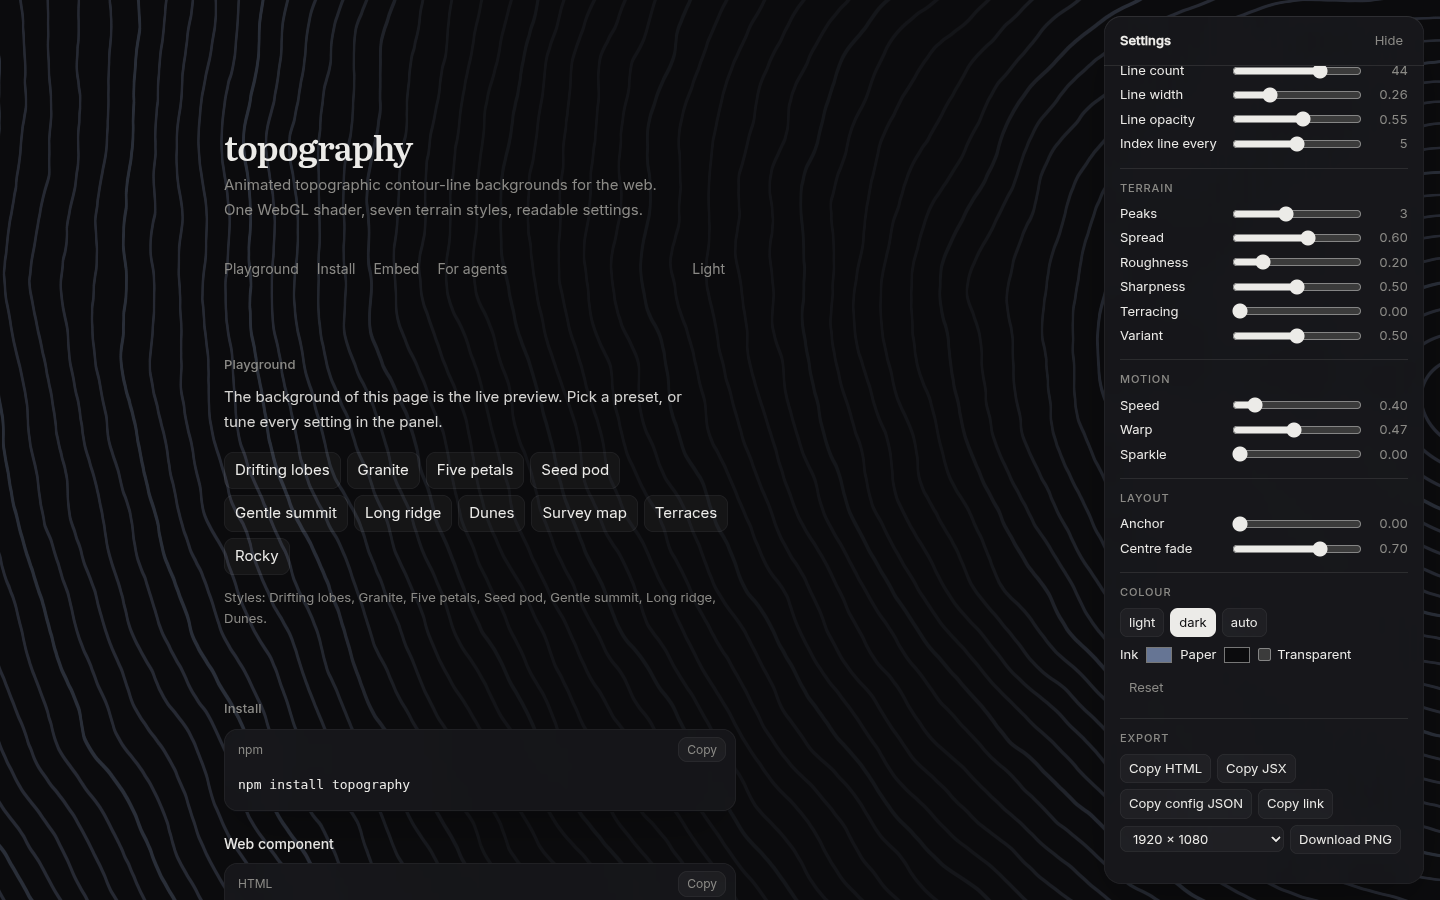
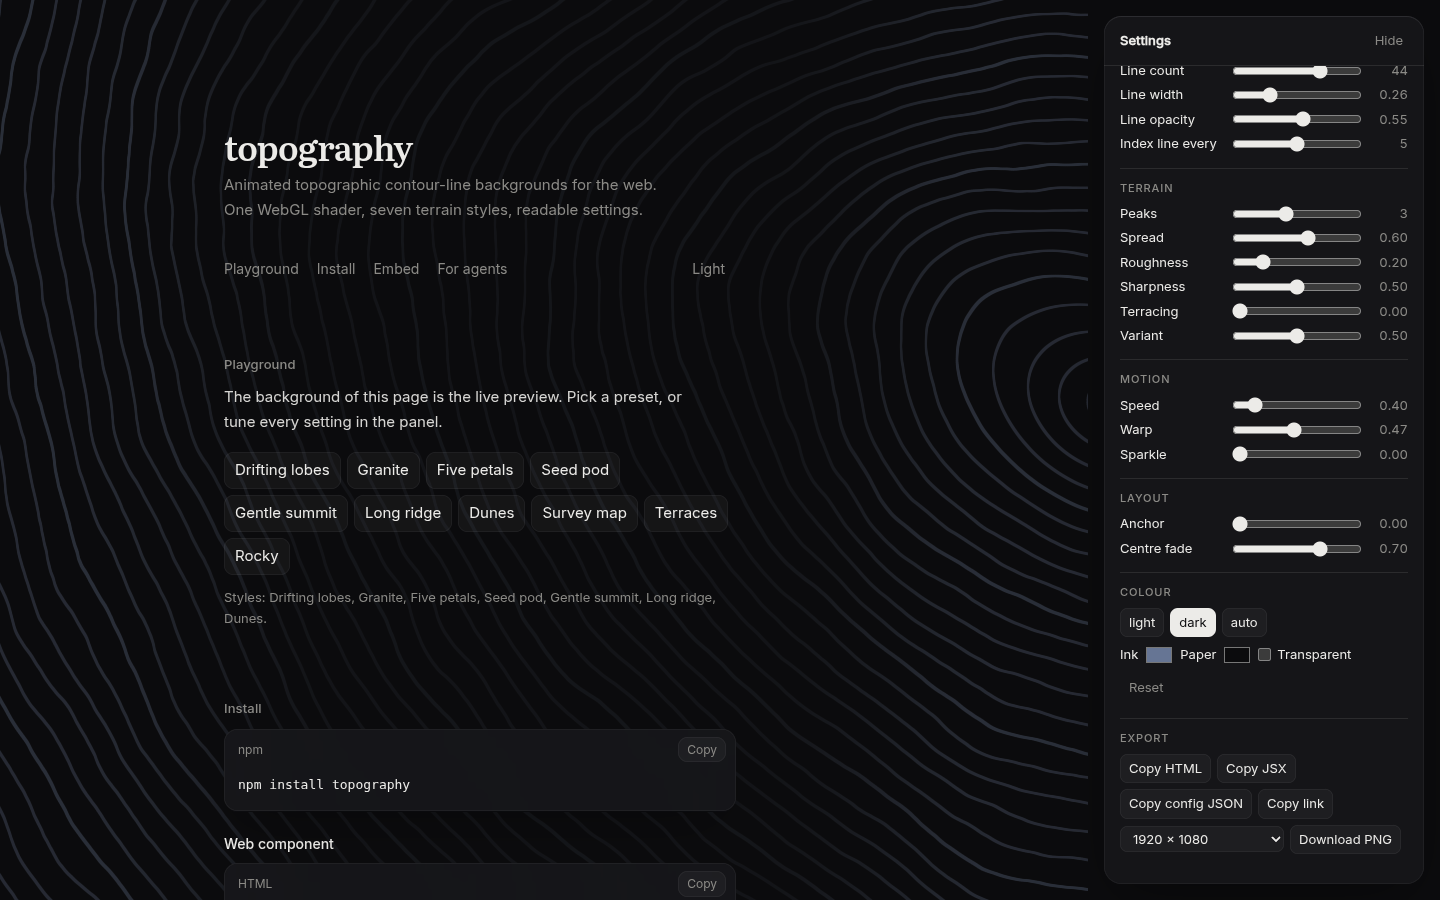
keep the summit clear of the settings panel
- on wide screens the open panel gets its own column and the background fills the rest
- refresh the readme hero screenshot

diff --git a/apps/generator/src/Panel.tsx b/apps/generator/src/Panel.tsx
@@ -1,4 +1,4 @@
-import { useState, type MutableRefObject } from 'react';
+import { useEffect, useState, type MutableRefObject } from 'react';
 import { GROUPS, paramsIn, STYLES, THEME_DEFAULTS, rgbaToCss, type Settings, type SettingsInput, type Topography } from 'topography';
 import { embedCode } from './embed';
 import { downloadPng, PNG_SIZES } from './png';
@@ -20,6 +20,8 @@ interface Props {
 
 export function Panel({ settings, mode, onChange, instance }: Props) {
   const [open, setOpen] = useState(() => !matchMedia('(max-width: 900px)').matches);
+  // on wide screens the open panel takes its own column, so the summit isn't hidden behind it
+  useEffect(() => { document.documentElement.dataset.panel = open ? 'open' : 'closed'; }, [open]);
   const [copied, setCopied] = useState('');
   const [size, setSize] = useState(0);
   const [busy, setBusy] = useState(false);

diff --git a/apps/generator/src/style.css b/apps/generator/src/style.css
@@ -11,6 +11,7 @@ button,select,input{font:inherit;color:inherit}
 @media (prefers-reduced-motion:reduce){*{transition-duration:0s!important;scroll-behavior:auto!important}}
 
 .stage{position:fixed!important;inset:0;z-index:0}
+@media (min-width:901px){[data-panel=open] .stage{right:352px}}
 .wrap{position:relative;z-index:1;max-width:560px;margin:0 0 0 max(24px,calc(50vw - 520px));padding:128px 24px 120px}
 .head h1{font:600 34px/1.1 Literata,Georgia,serif;letter-spacing:-.02em}
 .head p{color:var(--mut);margin-top:8px;max-width:46ch}
